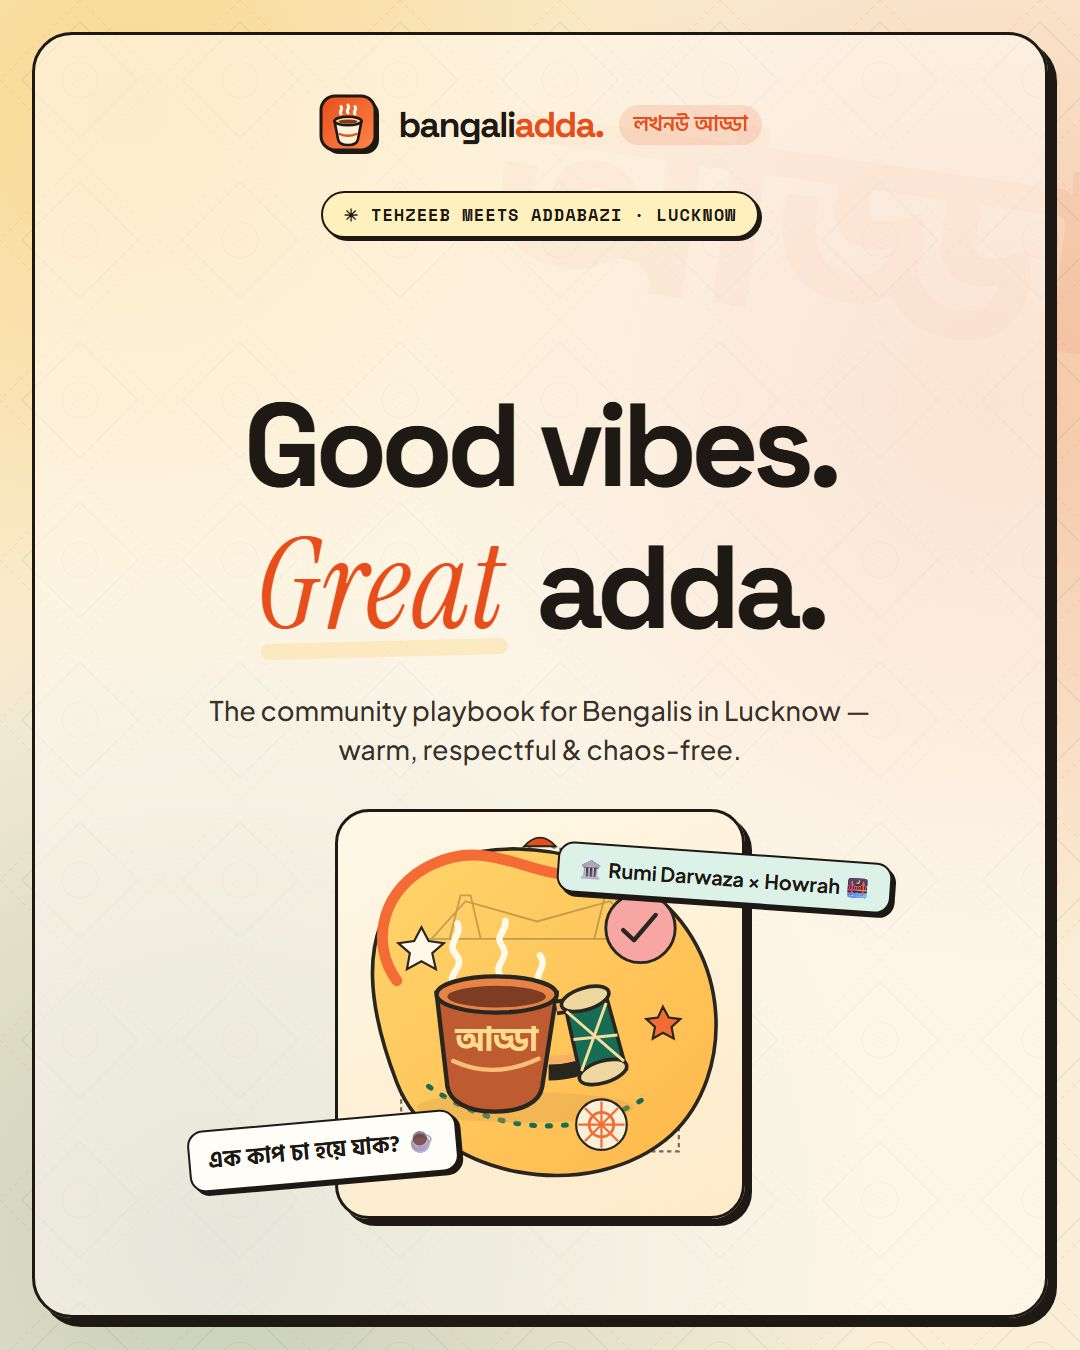
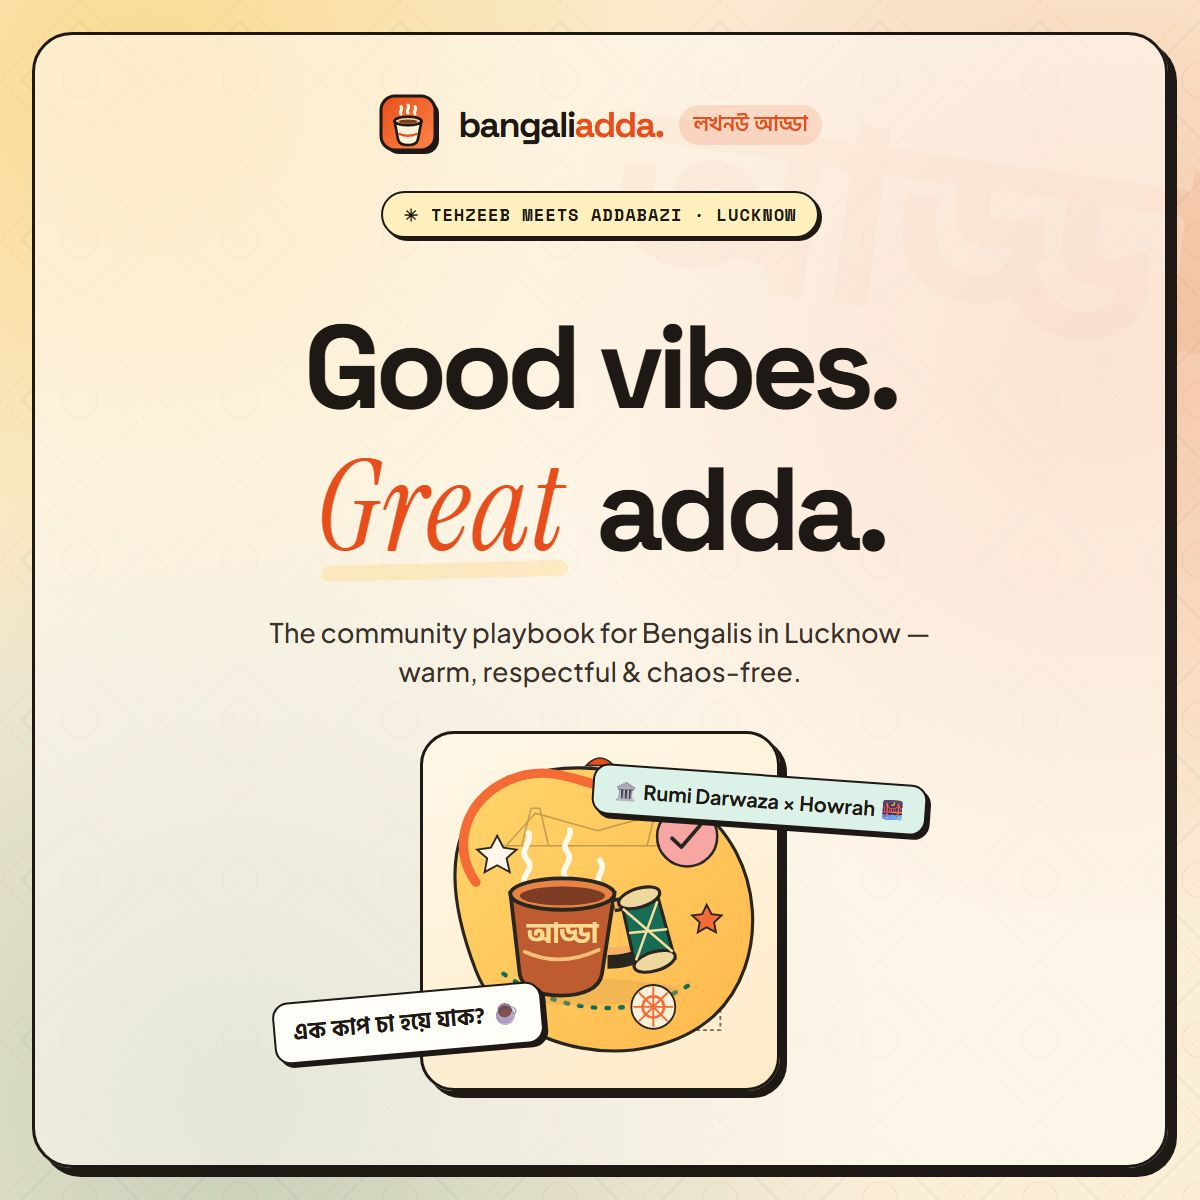
Update Open Graph image to square dimensions (1200x1200) for improved social sharing

diff --git a/assets/og-image.html b/assets/og-image.html
@@ -1,6 +1,6 @@
 <!doctype html>
-<!-- Source for og-image.jpg (portrait 1080×1350, 4:5). Regenerate after editing — see CLAUDE.md. Not linked from the site.
-     Platforms that force 1.91:1 (Facebook, LinkedIn, X) centre-crop to roughly y 392–957, so the headline sits in that band. -->
+<!-- Source for og-image.jpg (square 1200×1200). Regenerate after editing — see CLAUDE.md. Not linked from the site.
+     Platforms that force 1.91:1 (Facebook, LinkedIn, X) centre-crop to roughly y 286–914, so the headline sits in that band. -->
 <html lang="en">
 <head>
 <meta charset="utf-8">
@@ -9,7 +9,7 @@
 <link href="https://fonts.googleapis.com/css2?family=Hind+Siliguri:wght@600;700&family=Instrument+Serif:ital@1&family=Plus+Jakarta+Sans:wght@500;700&family=Space+Grotesk:wght@700&family=Space+Mono:wght@700&display=block" rel="stylesheet">
 <style>
   * { box-sizing: border-box; margin: 0; }
-  html, body { width: 1080px; height: 1350px; overflow: hidden; }
+  html, body { width: 1200px; height: 1200px; overflow: hidden; }
   body {
     font-family: 'Plus Jakarta Sans', sans-serif; color: #1e1915;
     background:
@@ -31,11 +31,11 @@
   .brand .bn { font: 600 21px 'Hind Siliguri'; letter-spacing: 0; color: #e84e1b; background: rgba(232,78,27,.14); padding: 3px 14px; border-radius: 999px; }
   .eyebrow { margin-top: 34px; padding: 9px 20px; border: 2px solid #1e1915; border-radius: 999px;
     background: #fff0be; box-shadow: 3px 3px 0 #1e1915; font: 700 17px 'Space Mono'; letter-spacing: .06em; text-transform: uppercase; }
-  h1 { font: 700 118px/.98 'Space Grotesk'; letter-spacing: -.055em; margin-top: 150px; }
+  h1 { font: 700 118px/.98 'Space Grotesk'; letter-spacing: -.055em; margin-top: 72px; }
   h1 em { font: italic 400 1.06em 'Instrument Serif'; color: #e84e1b; letter-spacing: .01em; position: relative; display: inline-block; padding-right: .06em; }
   h1 em::after { content: ""; position: absolute; left: 2%; right: 2%; bottom: 10px; height: 16px; background: #f9bf3b; opacity: .55; border-radius: 99px; transform: rotate(-1.5deg); z-index: -1; }
   .lead { margin-top: 24px; max-width: 700px; font-size: 27px; font-weight: 500; line-height: 1.45; color: #3a312a; }
-  .art { position: relative; margin-top: 40px; width: 410px; background: linear-gradient(155deg, rgba(255,248,231,.95), rgba(255,233,196,.85));
+  .art { position: relative; margin-top: 40px; width: 360px; background: linear-gradient(155deg, rgba(255,248,231,.95), rgba(255,233,196,.85));
     border: 3px solid #1e1915; border-radius: 34px; padding: 14px; box-shadow: 7px 7px 0 #1e1915; }
   .art svg { display: block; width: 100%; height: auto; }
   .badge { position: absolute; padding: 10px 18px; background: #fffdf8; border: 2px solid #1e1915; border-radius: 16px; box-shadow: 4px 4px 0 #1e1915; white-space: nowrap; }

diff --git a/index.html b/index.html
@@ -22,8 +22,8 @@
   <meta property="og:description" content="The community playbook for Bengalis in Lucknow — 11 simple rules to keep our WhatsApp adda warm, respectful & chaos-free. ☕">
   <meta property="og:image" content="https://d4rkr0n1n-playground.github.io/bong-adda/assets/og-image.jpg">
   <meta property="og:image:type" content="image/jpeg">
-  <meta property="og:image:width" content="1080">
-  <meta property="og:image:height" content="1350">
+  <meta property="og:image:width" content="1200">
+  <meta property="og:image:height" content="1200">
   <meta property="og:image:alt" content="Bangali Adda Lucknow — Good vibes. Great adda. Illustration of a clay cup of cha marked আড্ডা beside a dhak drum.">
 
   <!-- Twitter / X -->

diff --git a/.claude/skills/bong-adda-design/assets/starter.html b/.claude/skills/bong-adda-design/assets/starter.html
@@ -19,8 +19,8 @@
   <meta property="og:description" content="{{META_DESCRIPTION}}">
   <meta property="og:image" content="https://d4rkr0n1n-playground.github.io/bong-adda/assets/og-image.jpg">
   <meta property="og:image:type" content="image/jpeg">
-  <meta property="og:image:width" content="1080">
-  <meta property="og:image:height" content="1350">
+  <meta property="og:image:width" content="1200">
+  <meta property="og:image:height" content="1200">
   <meta property="og:image:alt" content="{{OG_IMAGE_ALT}}">
   <meta name="twitter:card" content="summary_large_image">
   <meta name="twitter:title" content="{{PAGE_TITLE}} ✦ Bangali Adda Lucknow">

diff --git a/SESSIONS.md b/SESSIONS.md
@@ -6,6 +6,20 @@ A running log of work sessions on this repo: what changed, why, and what's still
 
 ---
 
+## 2026-11-07: Square OG image
+
+### Done
+- `assets/og-image.jpg` is now **square, 1200×1200** (~120 KB). The layout is stacked and centered: brand, eyebrow, headline, lead, then the illustration with two float badges. The source is `assets/og-image.html`.
+- Updated `og:image:width`/`height` in `index.html` and the skill starter, plus the dimensions and regenerate command in `CLAUDE.md`, `GEMINI.md`, `AGENTS.md`, and `DESIGN.md`.
+
+### Decisions
+- Square by request; WhatsApp shows square link thumbnails well. Platforms that force 1.91:1 (Facebook, LinkedIn, X) centre-crop it to about y 286–914, so the headline and lead stay in that band, and the brand and most of the illustration are cut off there.
+
+### Open / next
+- [ ] Check the preview in WhatsApp and the Facebook Sharing Debugger after the deploy. If the landscape crops look poor, add a separate 1200×630 image for `twitter:image`.
+
+---
+
 ## 2026-11-06 — Docs, design system, favicon and social previews
 
 Commit: `4f469af`
@@ -16,13 +30,12 @@ Commit: `4f469af`
 - **Skill `.claude/skills/bong-adda-design/`**: `SKILL.md` (workflow, design rules, component catalog, checklist), `assets/starter.html` (a working page skeleton with `{{PLACEHOLDER}}`s), and `assets/design-system.css` (the stylesheet copied exactly from `index.html`).
 - **`DESIGN.md`**: the full design spec: tokens for both themes, type scale, shape and shadow, motion, background stack, components, breakpoints, voice, illustration, icon and OG card, and accessibility.
 - **Favicon set** in `assets/`: `favicon.svg` (a vector redraw of `.brand-icon` with a clay bhar), `favicon-32.png`, and `apple-touch-icon.png`.
-- **Social previews**: `assets/og-image.jpg` (originally 1200×630, later changed to portrait 1080×1350; see the decision below), rendered with headless Chrome from `assets/og-image.html`. Open Graph, Twitter card, and canonical tags were added to `index.html` `<head>` and as placeholders in the skill's starter.
+- **Social previews**: `assets/og-image.jpg` (originally 1200×630, then portrait 1080×1350, now square; see 2026-11-07), rendered with headless Chrome from `assets/og-image.html`. Open Graph, Twitter card, and canonical tags were added to `index.html` `<head>` and as placeholders in the skill's starter.
 
 ### Decisions
 - `DESIGN.md` is the design source of truth. `index.html` wins if they disagree, and then `DESIGN.md` gets updated.
 - The favicon is drawn as vector art rather than using the ☕ emoji, which renders differently on every OS.
 - The OG image is a JPEG (~125 KB; a PNG would be about 4× larger) to stay under WhatsApp's ~300 KB preview limit, since WhatsApp is the main place links get shared.
-- The OG image is portrait (4:5) by request. 1.91:1 platforms centre-crop it, so the headline is kept in the middle band.
 - Pages stay single self-contained HTML files with no build step, and the only external dependency is Google Fonts.
 - All pages share the `localStorage` theme key `ba_theme`.
 

diff --git a/AGENTS.md b/AGENTS.md
@@ -33,13 +33,13 @@ Fonts in use: Plus Jakarta Sans (body), Space Grotesk (display), Instrument Seri
 ## Social preview and icons
 
 - `assets/favicon.svg` is the master icon: a sindoor tile with a brutal shadow and a clay bhar, matching `.brand-icon`. `favicon-32.png` and `apple-touch-icon.png` (180px, on a cream background) are rendered from it.
-- `assets/og-image.jpg` (portrait 1080×1350, 4:5, ~125 KB; keep it under 300 KB or WhatsApp may skip the preview) is rendered from `assets/og-image.html`, which reuses the hero SVG from `index.html`. Platforms that force 1.91:1 (Facebook, LinkedIn, X) centre-crop it, so keep the headline in the middle band (about y 392–957).
+- `assets/og-image.jpg` (square 1200×1200, ~120 KB; keep it under 300 KB or WhatsApp may skip the preview) is rendered from `assets/og-image.html`, which reuses the hero SVG from `index.html`. Platforms that force 1.91:1 (Facebook, LinkedIn, X) centre-crop it, so keep the headline in the middle band (about y 286–914).
 - OG and Twitter image URLs in `<head>` are absolute and assume `https://d4rkr0n1n-playground.github.io/bong-adda/`. Update them if a custom domain is added.
 - To regenerate after editing a source, run headless Chrome from the repo root (it needs network access for Google Fonts):
   ```sh
   CH="/c/Program Files/Google/Chrome/Application/chrome.exe"
   "$CH" --headless=new --hide-scrollbars --force-device-scale-factor=1 --virtual-time-budget=8000 \
-    --window-size=1080,1350 --screenshot="$PWD/assets/og-image.jpg" "file:///$PWD/assets/og-image.html"
+    --window-size=1200,1200 --screenshot="$PWD/assets/og-image.jpg" "file:///$PWD/assets/og-image.html"
   "$CH" --headless=new --hide-scrollbars --force-device-scale-factor=1 --default-background-color=00000000 \
     --window-size=32,32 --screenshot="$PWD/assets/favicon-32.png" "file:///$PWD/assets/favicon.svg"
   ```

diff --git a/CLAUDE.md b/CLAUDE.md
@@ -35,13 +35,13 @@ Fonts in use: Plus Jakarta Sans (body), Space Grotesk (display), Instrument Seri
 ## Social preview and icons
 
 - `assets/favicon.svg` is the master icon: a sindoor tile with a brutal shadow and a clay bhar, matching `.brand-icon`. `favicon-32.png` and `apple-touch-icon.png` (180px, on a cream background) are rendered from it.
-- `assets/og-image.jpg` (portrait 1080×1350, 4:5, ~125 KB; keep it under 300 KB or WhatsApp may skip the preview) is rendered from `assets/og-image.html`, which reuses the hero SVG from `index.html`. Platforms that force 1.91:1 (Facebook, LinkedIn, X) centre-crop it, so keep the headline in the middle band (about y 392–957).
+- `assets/og-image.jpg` (square 1200×1200, ~120 KB; keep it under 300 KB or WhatsApp may skip the preview) is rendered from `assets/og-image.html`, which reuses the hero SVG from `index.html`. Platforms that force 1.91:1 (Facebook, LinkedIn, X) centre-crop it, so keep the headline in the middle band (about y 286–914).
 - OG and Twitter image URLs in `<head>` are absolute and assume `https://d4rkr0n1n-playground.github.io/bong-adda/`. Update them if a custom domain is added.
 - To regenerate after editing a source, run headless Chrome from the repo root (it needs network access for Google Fonts):
   ```sh
   CH="/c/Program Files/Google/Chrome/Application/chrome.exe"
   "$CH" --headless=new --hide-scrollbars --force-device-scale-factor=1 --virtual-time-budget=8000 \
-    --window-size=1080,1350 --screenshot="$PWD/assets/og-image.jpg" "file:///$PWD/assets/og-image.html"
+    --window-size=1200,1200 --screenshot="$PWD/assets/og-image.jpg" "file:///$PWD/assets/og-image.html"
   "$CH" --headless=new --hide-scrollbars --force-device-scale-factor=1 --default-background-color=00000000 \
     --window-size=32,32 --screenshot="$PWD/assets/favicon-32.png" "file:///$PWD/assets/favicon.svg"
   ```

diff --git a/GEMINI.md b/GEMINI.md
@@ -35,13 +35,13 @@ Fonts in use: Plus Jakarta Sans (body), Space Grotesk (display), Instrument Seri
 ## Social preview and icons
 
 - `assets/favicon.svg` is the master icon: a sindoor tile with a brutal shadow and a clay bhar, matching `.brand-icon`. `favicon-32.png` and `apple-touch-icon.png` (180px, on a cream background) are rendered from it.
-- `assets/og-image.jpg` (portrait 1080×1350, 4:5, ~125 KB; keep it under 300 KB or WhatsApp may skip the preview) is rendered from `assets/og-image.html`, which reuses the hero SVG from `index.html`. Platforms that force 1.91:1 (Facebook, LinkedIn, X) centre-crop it, so keep the headline in the middle band (about y 392–957).
+- `assets/og-image.jpg` (square 1200×1200, ~120 KB; keep it under 300 KB or WhatsApp may skip the preview) is rendered from `assets/og-image.html`, which reuses the hero SVG from `index.html`. Platforms that force 1.91:1 (Facebook, LinkedIn, X) centre-crop it, so keep the headline in the middle band (about y 286–914).
 - OG and Twitter image URLs in `<head>` are absolute and assume `https://d4rkr0n1n-playground.github.io/bong-adda/`. Update them if a custom domain is added.
 - To regenerate after editing a source, run headless Chrome from the repo root (it needs network access for Google Fonts):
   ```sh
   CH="/c/Program Files/Google/Chrome/Application/chrome.exe"
   "$CH" --headless=new --hide-scrollbars --force-device-scale-factor=1 --virtual-time-budget=8000 \
-    --window-size=1080,1350 --screenshot="$PWD/assets/og-image.jpg" "file:///$PWD/assets/og-image.html"
+    --window-size=1200,1200 --screenshot="$PWD/assets/og-image.jpg" "file:///$PWD/assets/og-image.html"
   "$CH" --headless=new --hide-scrollbars --force-device-scale-factor=1 --default-background-color=00000000 \
     --window-size=32,32 --screenshot="$PWD/assets/favicon-32.png" "file:///$PWD/assets/favicon.svg"
   ```

diff --git a/DESIGN.md b/DESIGN.md
@@ -164,7 +164,7 @@ Original inline SVG only. Use thick `#29251f` outlines (3–6px), flat warm fill
 ## 11. Brand icon and social card
 
 - **Favicon** (`assets/favicon.svg`): a 54px sindoor-gradient tile (`#e84e1b → #ff8547`) with a 3px ink border and a hard 4px ink offset shadow, holding a cream clay bhar with steam. It's the vector twin of `.brand-icon`. Don't use the ☕ emoji as an icon, because emoji render differently on every OS.
-- **OG card** (`assets/og-image.html` → `og-image.jpg`, portrait 1080×1350, 4:5): cream mesh background with the jaali pattern and an inset brutal frame (3px border, 40px radius, 9px shadow). Stacked and centered: brand lockup, eyebrow, the hero headline with its serif accent and swash, a one-line lead, then the hero illustration with Bengali and Lucknow float badges. Keep the headline and lead inside the vertical band about y 392–957, because 1.91:1 platforms centre-crop to it. Page-specific cards should keep this layout and change only the text.
+- **OG card** (`assets/og-image.html` → `og-image.jpg`, square 1200×1200): cream mesh background with the jaali pattern and an inset brutal frame (3px border, 40px radius, 9px shadow). Stacked and centered: brand lockup, eyebrow, the hero headline with its serif accent and swash, a one-line lead, then the hero illustration with Bengali and Lucknow float badges. Keep the headline and lead inside the vertical band about y 286–914, because 1.91:1 platforms centre-crop to it. Page-specific cards should keep this layout and change only the text.
 
 ## 12. Interaction and accessibility
 
